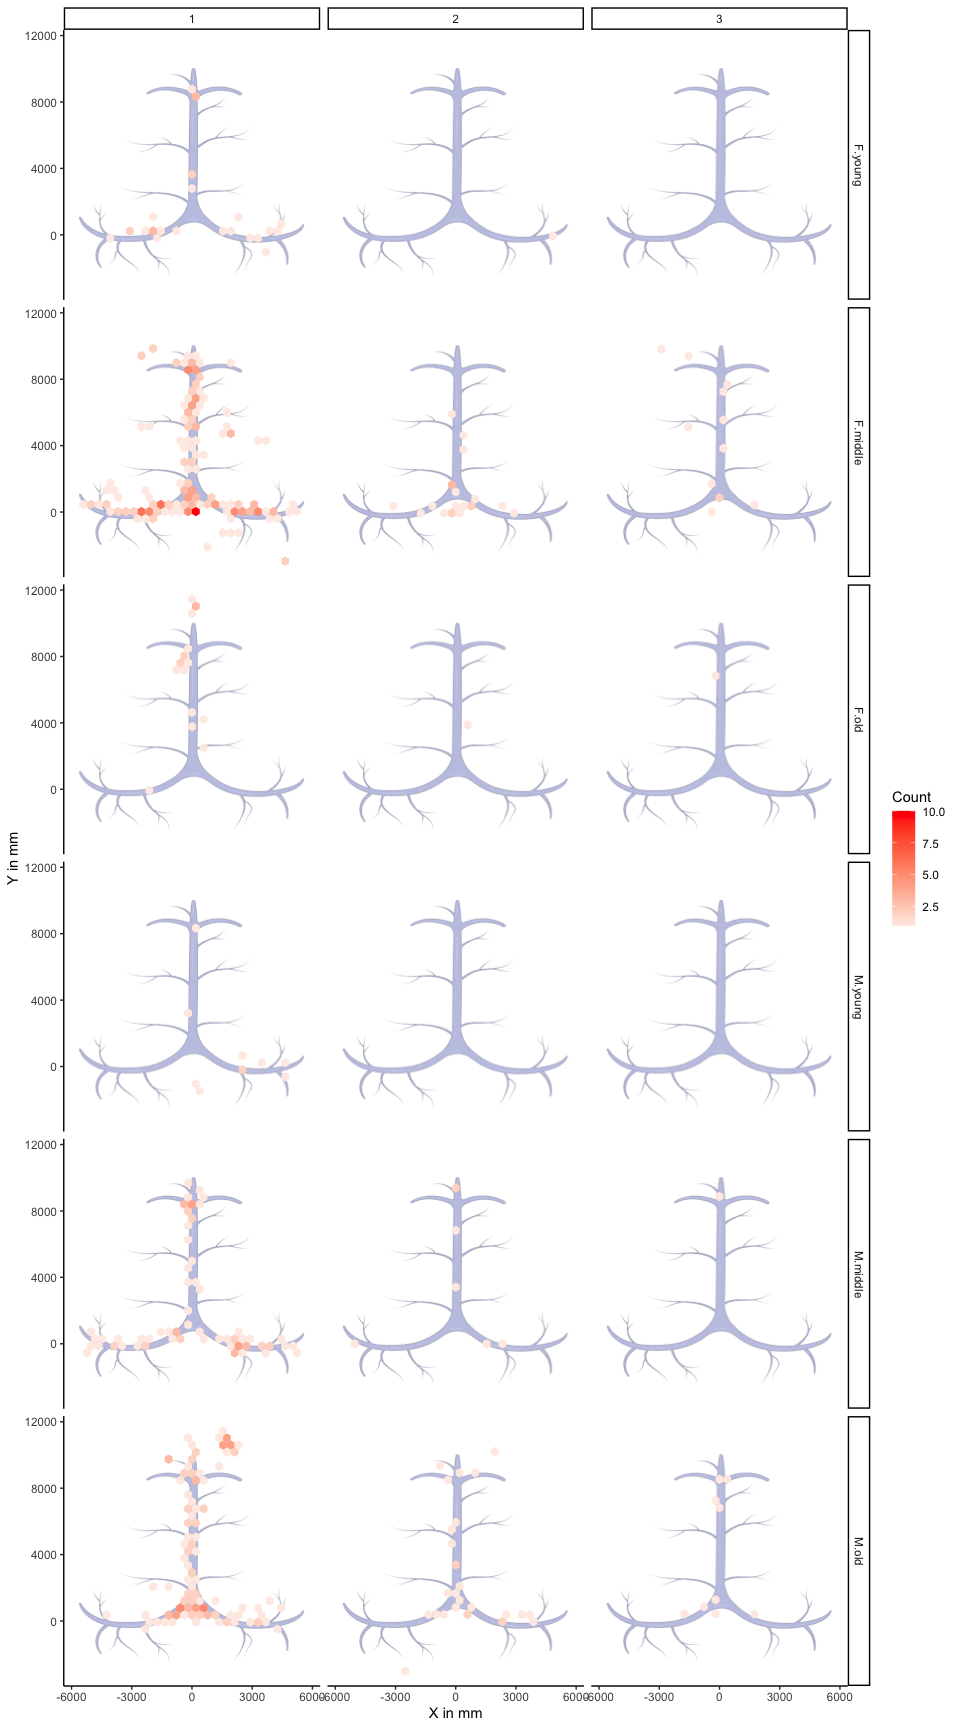
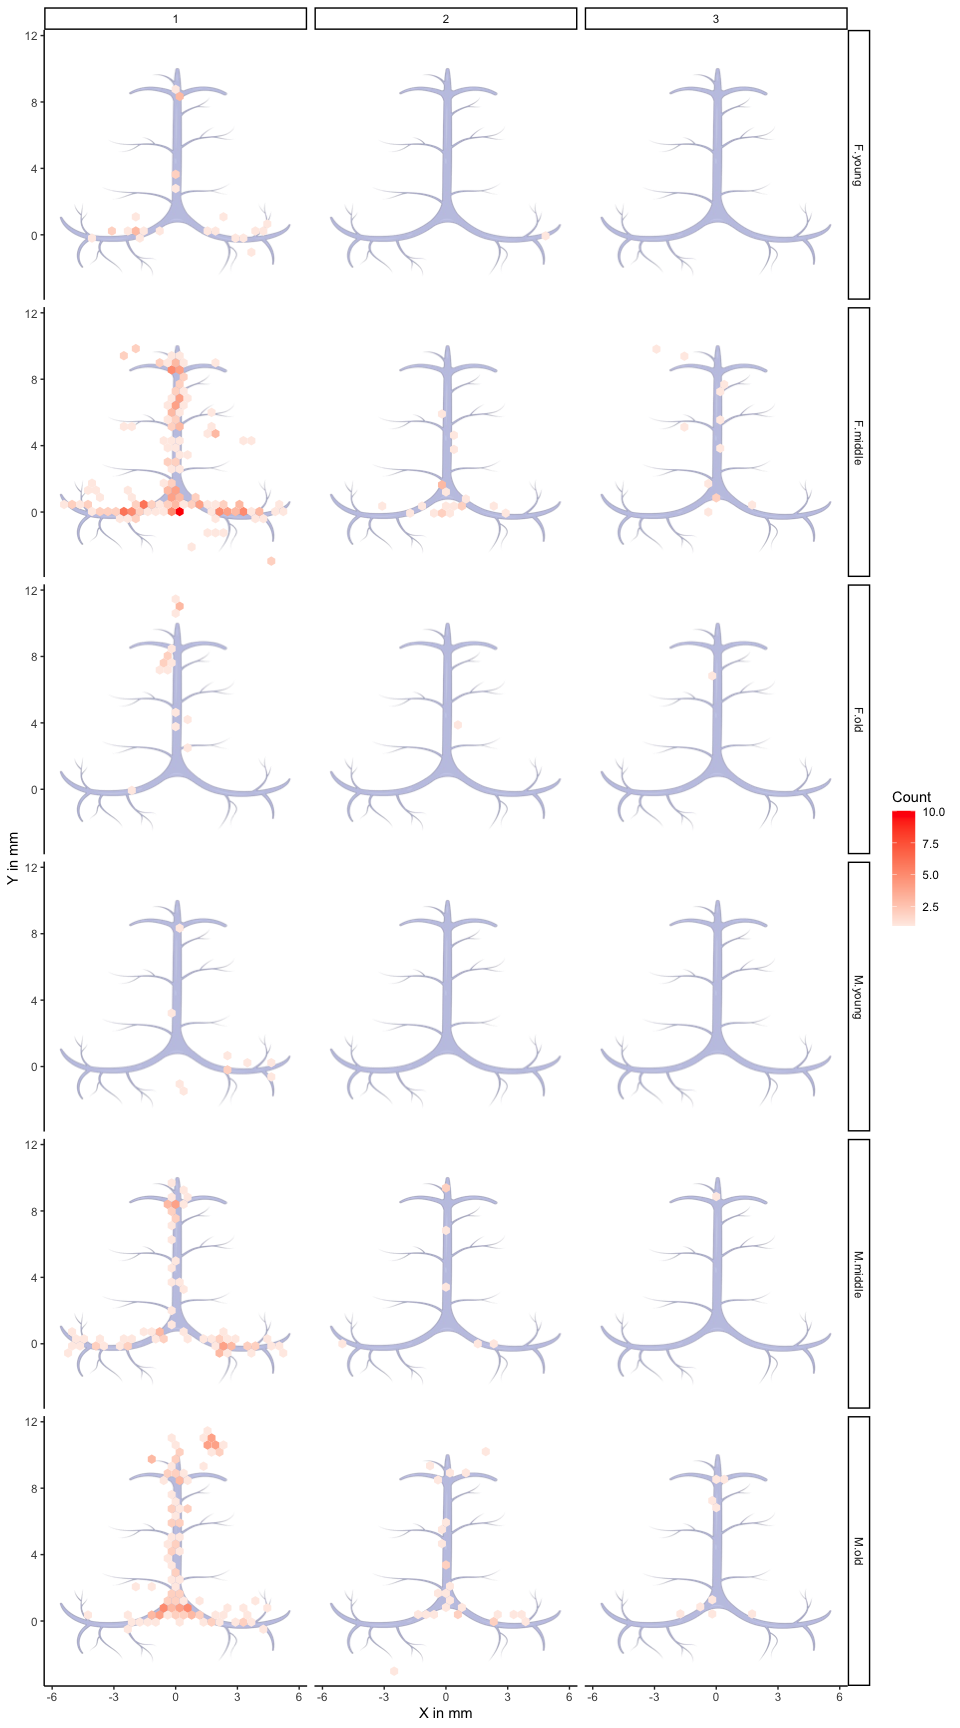
Convert micro to cm

diff --git a/C57.md b/C57.md
@@ -54,8 +54,8 @@ sinus location, respectively.</caption>
 <td style="text-align: left;">young</td>
 <td style="text-align: right;">5</td>
 <td style="text-align: right;">28</td>
-<td style="text-align: right;">122.1</td>
-<td style="text-align: right;">0.4</td>
+<td style="text-align: right;">12.2</td>
+<td style="text-align: right;">3.6</td>
 <td style="text-align: left;">27-1-0</td>
 <td style="text-align: left;">10-7-11</td>
 </tr>
@@ -64,8 +64,8 @@ sinus location, respectively.</caption>
 <td style="text-align: left;">middle</td>
 <td style="text-align: right;">8</td>
 <td style="text-align: right;">247</td>
-<td style="text-align: right;">145.9</td>
-<td style="text-align: right;">0.4</td>
+<td style="text-align: right;">14.6</td>
+<td style="text-align: right;">3.6</td>
 <td style="text-align: left;">214-21-12</td>
 <td style="text-align: left;">60-121-66</td>
 </tr>
@@ -74,8 +74,8 @@ sinus location, respectively.</caption>
 <td style="text-align: left;">old</td>
 <td style="text-align: right;">3</td>
 <td style="text-align: right;">20</td>
-<td style="text-align: right;">129.1</td>
-<td style="text-align: right;">0.7</td>
+<td style="text-align: right;">12.9</td>
+<td style="text-align: right;">7.2</td>
 <td style="text-align: left;">18-1-1</td>
 <td style="text-align: left;">0-19-1</td>
 </tr>
@@ -84,8 +84,8 @@ sinus location, respectively.</caption>
 <td style="text-align: left;">young</td>
 <td style="text-align: right;">4</td>
 <td style="text-align: right;">10</td>
-<td style="text-align: right;">59.6</td>
-<td style="text-align: right;">0.3</td>
+<td style="text-align: right;">6.0</td>
+<td style="text-align: right;">3.4</td>
 <td style="text-align: left;">10-0-0</td>
 <td style="text-align: left;">6-4-0</td>
 </tr>
@@ -94,8 +94,8 @@ sinus location, respectively.</caption>
 <td style="text-align: left;">middle</td>
 <td style="text-align: right;">8</td>
 <td style="text-align: right;">86</td>
-<td style="text-align: right;">86.2</td>
-<td style="text-align: right;">0.4</td>
+<td style="text-align: right;">8.6</td>
+<td style="text-align: right;">4.2</td>
 <td style="text-align: left;">78-7-1</td>
 <td style="text-align: left;">31-33-22</td>
 </tr>
@@ -104,8 +104,8 @@ sinus location, respectively.</caption>
 <td style="text-align: left;">old</td>
 <td style="text-align: right;">8</td>
 <td style="text-align: right;">173</td>
-<td style="text-align: right;">188.6</td>
-<td style="text-align: right;">0.5</td>
+<td style="text-align: right;">18.9</td>
+<td style="text-align: right;">4.5</td>
 <td style="text-align: left;">136-28-9</td>
 <td style="text-align: left;">42-103-28</td>
 </tr>

diff --git a/APP.md b/APP.md
@@ -54,8 +54,8 @@ sinus location, respectively.</caption>
 <td style="text-align: left;">young</td>
 <td style="text-align: right;">5</td>
 <td style="text-align: right;">78</td>
-<td style="text-align: right;">82.9</td>
-<td style="text-align: right;">0.4</td>
+<td style="text-align: right;">8.3</td>
+<td style="text-align: right;">4.3</td>
 <td style="text-align: left;">77-1-0</td>
 <td style="text-align: left;">23-32-23</td>
 </tr>
@@ -64,8 +64,8 @@ sinus location, respectively.</caption>
 <td style="text-align: left;">middle</td>
 <td style="text-align: right;">3</td>
 <td style="text-align: right;">53</td>
-<td style="text-align: right;">204.7</td>
-<td style="text-align: right;">0.4</td>
+<td style="text-align: right;">20.5</td>
+<td style="text-align: right;">4.4</td>
 <td style="text-align: left;">46-7-0</td>
 <td style="text-align: left;">13-34-6</td>
 </tr>
@@ -74,8 +74,8 @@ sinus location, respectively.</caption>
 <td style="text-align: left;">old</td>
 <td style="text-align: right;">8</td>
 <td style="text-align: right;">109</td>
-<td style="text-align: right;">142.8</td>
-<td style="text-align: right;">0.4</td>
+<td style="text-align: right;">14.3</td>
+<td style="text-align: right;">4.4</td>
 <td style="text-align: left;">92-13-4</td>
 <td style="text-align: left;">5-63-41</td>
 </tr>
@@ -84,8 +84,8 @@ sinus location, respectively.</caption>
 <td style="text-align: left;">young</td>
 <td style="text-align: right;">5</td>
 <td style="text-align: right;">87</td>
-<td style="text-align: right;">99.0</td>
-<td style="text-align: right;">0.5</td>
+<td style="text-align: right;">9.9</td>
+<td style="text-align: right;">5.2</td>
 <td style="text-align: left;">86-1-0</td>
 <td style="text-align: left;">16-52-19</td>
 </tr>
@@ -94,8 +94,8 @@ sinus location, respectively.</caption>
 <td style="text-align: left;">middle</td>
 <td style="text-align: right;">7</td>
 <td style="text-align: right;">70</td>
-<td style="text-align: right;">145.1</td>
-<td style="text-align: right;">0.5</td>
+<td style="text-align: right;">14.5</td>
+<td style="text-align: right;">4.8</td>
 <td style="text-align: left;">58-8-4</td>
 <td style="text-align: left;">18-40-12</td>
 </tr>
@@ -104,8 +104,8 @@ sinus location, respectively.</caption>
 <td style="text-align: left;">old</td>
 <td style="text-align: right;">6</td>
 <td style="text-align: right;">45</td>
-<td style="text-align: right;">151.4</td>
-<td style="text-align: right;">0.6</td>
+<td style="text-align: right;">15.1</td>
+<td style="text-align: right;">5.7</td>
 <td style="text-align: left;">31-6-8</td>
 <td style="text-align: left;">4-34-7</td>
 </tr>
